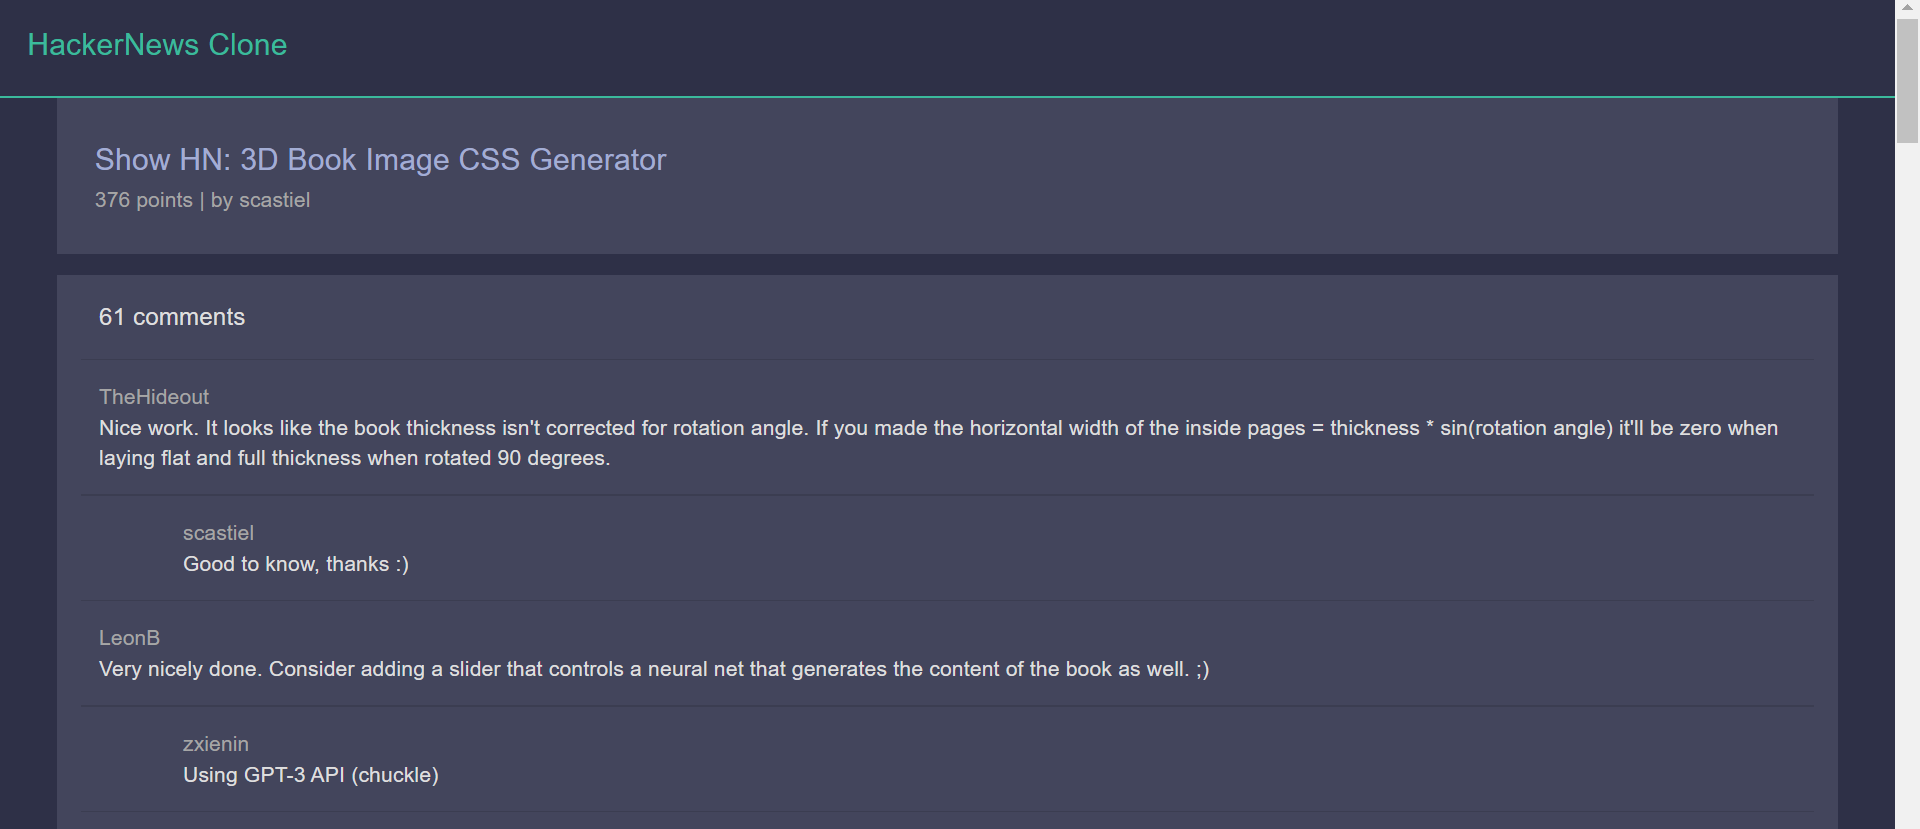
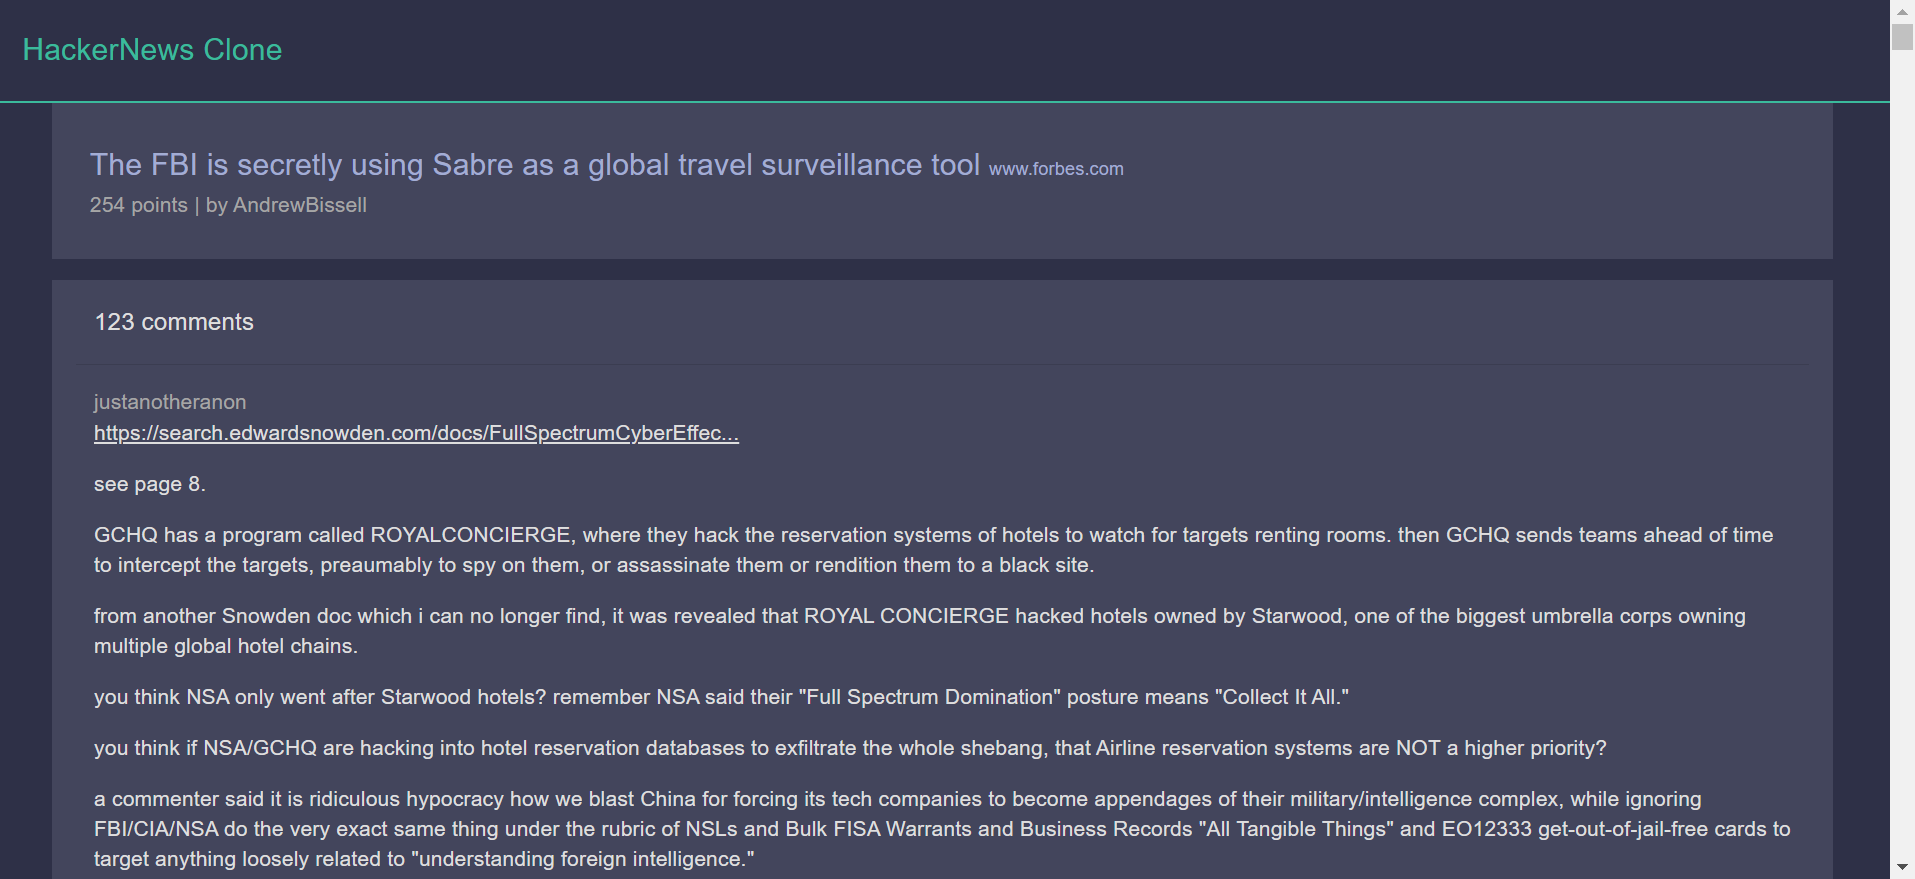
base URL of link now displays in the comment page

diff --git a/client/src/components/PostTile.js b/client/src/components/PostTile.js
@@ -85,18 +85,23 @@ function PostTile({ title, id, user, url, comments, score, time }) {
             {isMins ? (
               <Typography variant="subtitle2" className={classes.postInfo}>
                 by {user} {timeDiff} minutes ago | {"  "}
-                <Redirect to={`/item/${id}`} className={classes.postInfoLinks}>
+                <Redirect
+                  to={{
+                    pathname: `/item/${id}`,
+                    state: { commentNum: comments, baseURL: baseURL },
+                  }}
+                  className={classes.postInfoLinks}
+                >
                   {comments} comments
                 </Redirect>
               </Typography>
             ) : (
               <Typography variant="subtitle2" className={classes.postInfo}>
                 by {user} {timeDiff} hours ago | {"  "}
-                {console.log(`${title} ${comments}`)}
                 <Redirect
                   to={{
                     pathname: `/item/${id}`,
-                    state: { commentNum: comments },
+                    state: { commentNum: comments, baseURL: baseURL },
                   }}
                   className={classes.postInfoLinks}
                 >
@@ -118,7 +123,10 @@ function PostTile({ title, id, user, url, comments, score, time }) {
           </Box>
           <Box m={1.3}>
             <Redirect
-              to={`/item/${id}`}
+              to={{
+                pathname: `/item/${id}`,
+                state: { commentNum: comments },
+              }}
               className={classes.noLinkPostInfoLinks}
             >
               <Typography variant="subtitle1" className={classes.title}>
@@ -128,14 +136,26 @@ function PostTile({ title, id, user, url, comments, score, time }) {
             {isMins ? (
               <Typography variant="subtitle2" className={classes.postInfo}>
                 by {user} {timeDiff} minutes ago | {"  "}
-                <Redirect to={`/item/${id}`} className={classes.postInfoLinks}>
+                <Redirect
+                  to={{
+                    pathname: `/item/${id}`,
+                    state: { commentNum: comments },
+                  }}
+                  className={classes.postInfoLinks}
+                >
                   {comments} comments
                 </Redirect>
               </Typography>
             ) : (
               <Typography variant="subtitle2" className={classes.postInfo}>
                 by {user} {timeDiff} hours ago | {"  "}
-                <Redirect to={`/item/${id}`} className={classes.postInfoLinks}>
+                <Redirect
+                  to={{
+                    pathname: `/item/${id}`,
+                    state: { commentNum: comments },
+                  }}
+                  className={classes.postInfoLinks}
+                >
                   {comments} comments
                 </Redirect>
               </Typography>

diff --git a/client/src/pages/Commentpage.js b/client/src/pages/Commentpage.js
@@ -46,6 +46,7 @@ function Commentpage(props) {
   const classes = useStyles();
   const itemID = props.match.params.id; // id of the current thread
   const commentNum = props.location.state.commentNum;
+  const baseURL = props.location.state.baseURL;
   const { loading, error, data, networkStatus, fetchMore } = useQuery(
     get_direct_comments,
     {
@@ -71,9 +72,18 @@ function Commentpage(props) {
       <Container width="md">
         {data.comments && data.comments.comments && (
           <Grid className={classes.root}>
-            <Link href={data.comments.url} className={classes.underline}>
-              <Typography variant="h6">{data.comments.title}</Typography>
-            </Link>
+            {baseURL ? (
+              <Link href={data.comments.url} className={classes.underline}>
+                <Typography variant="h6">
+                  {data.comments.title}{" "}
+                  <a style={{ fontSize: 12 }}> {baseURL}</a>
+                </Typography>
+              </Link>
+            ) : (
+              <Link href={data.comments.url} className={classes.underline}>
+                <Typography variant="h6">{data.comments.title} </Typography>
+              </Link>
+            )}
             <Typography variant="subtitle2" style={{ color: "#a6a6a6" }}>
               {data.comments.score} points | by {data.comments.by}
             </Typography>
